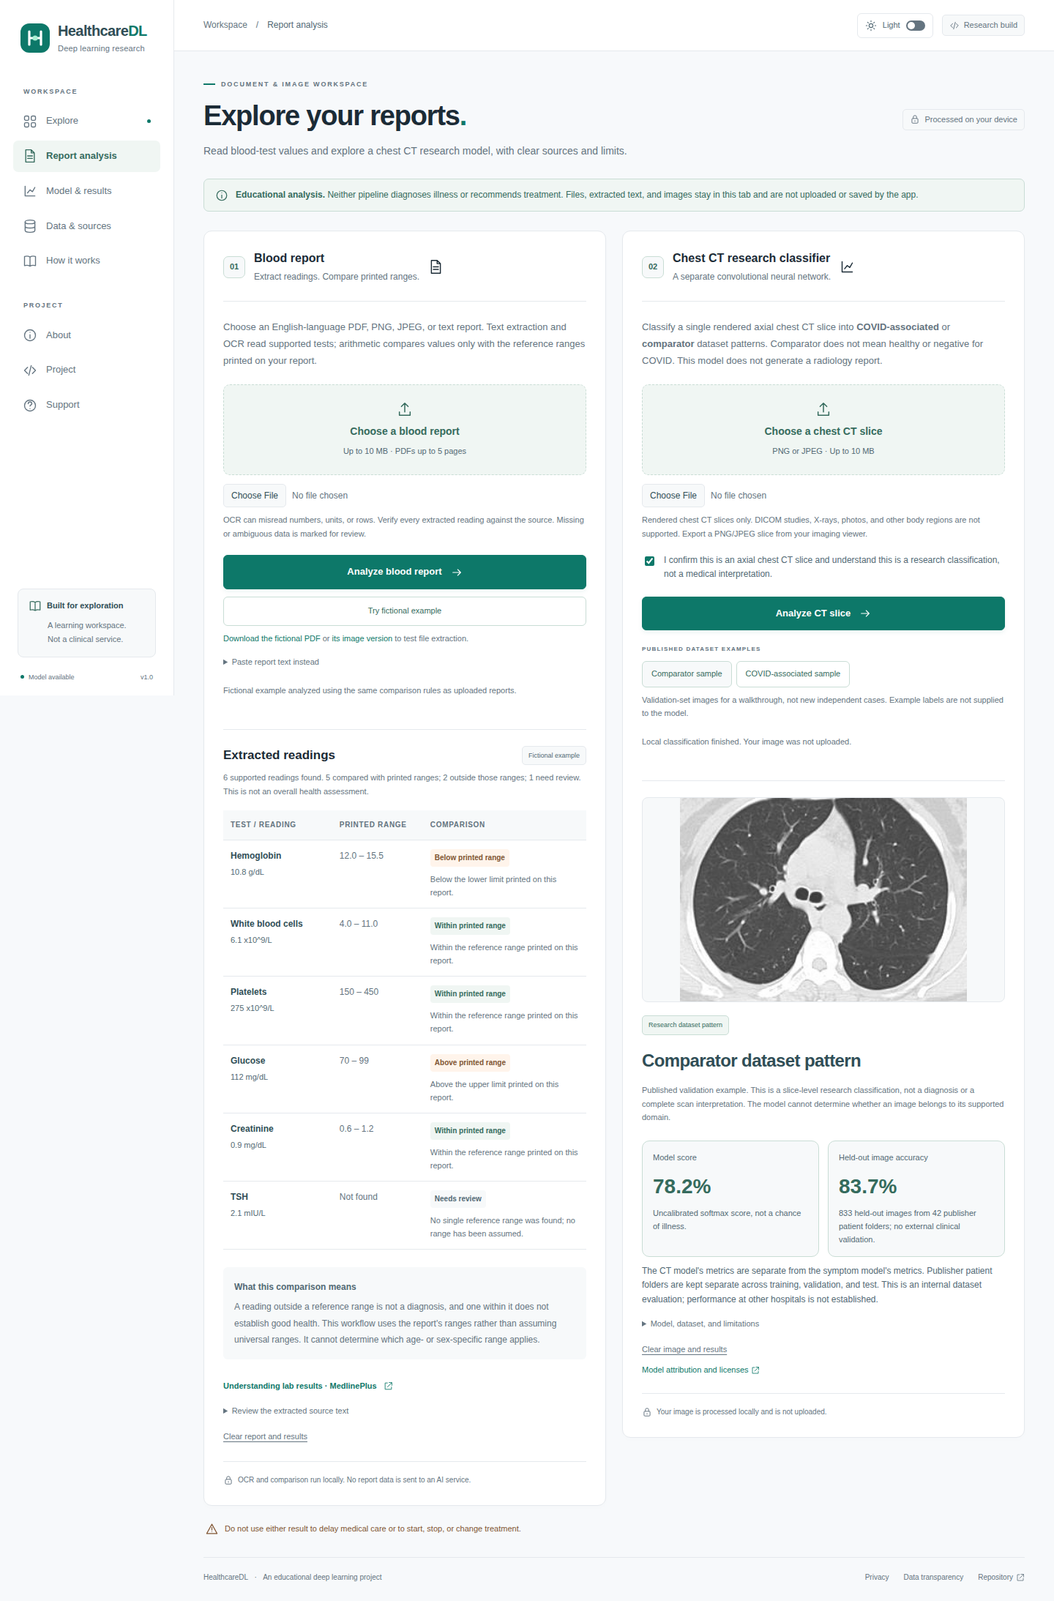
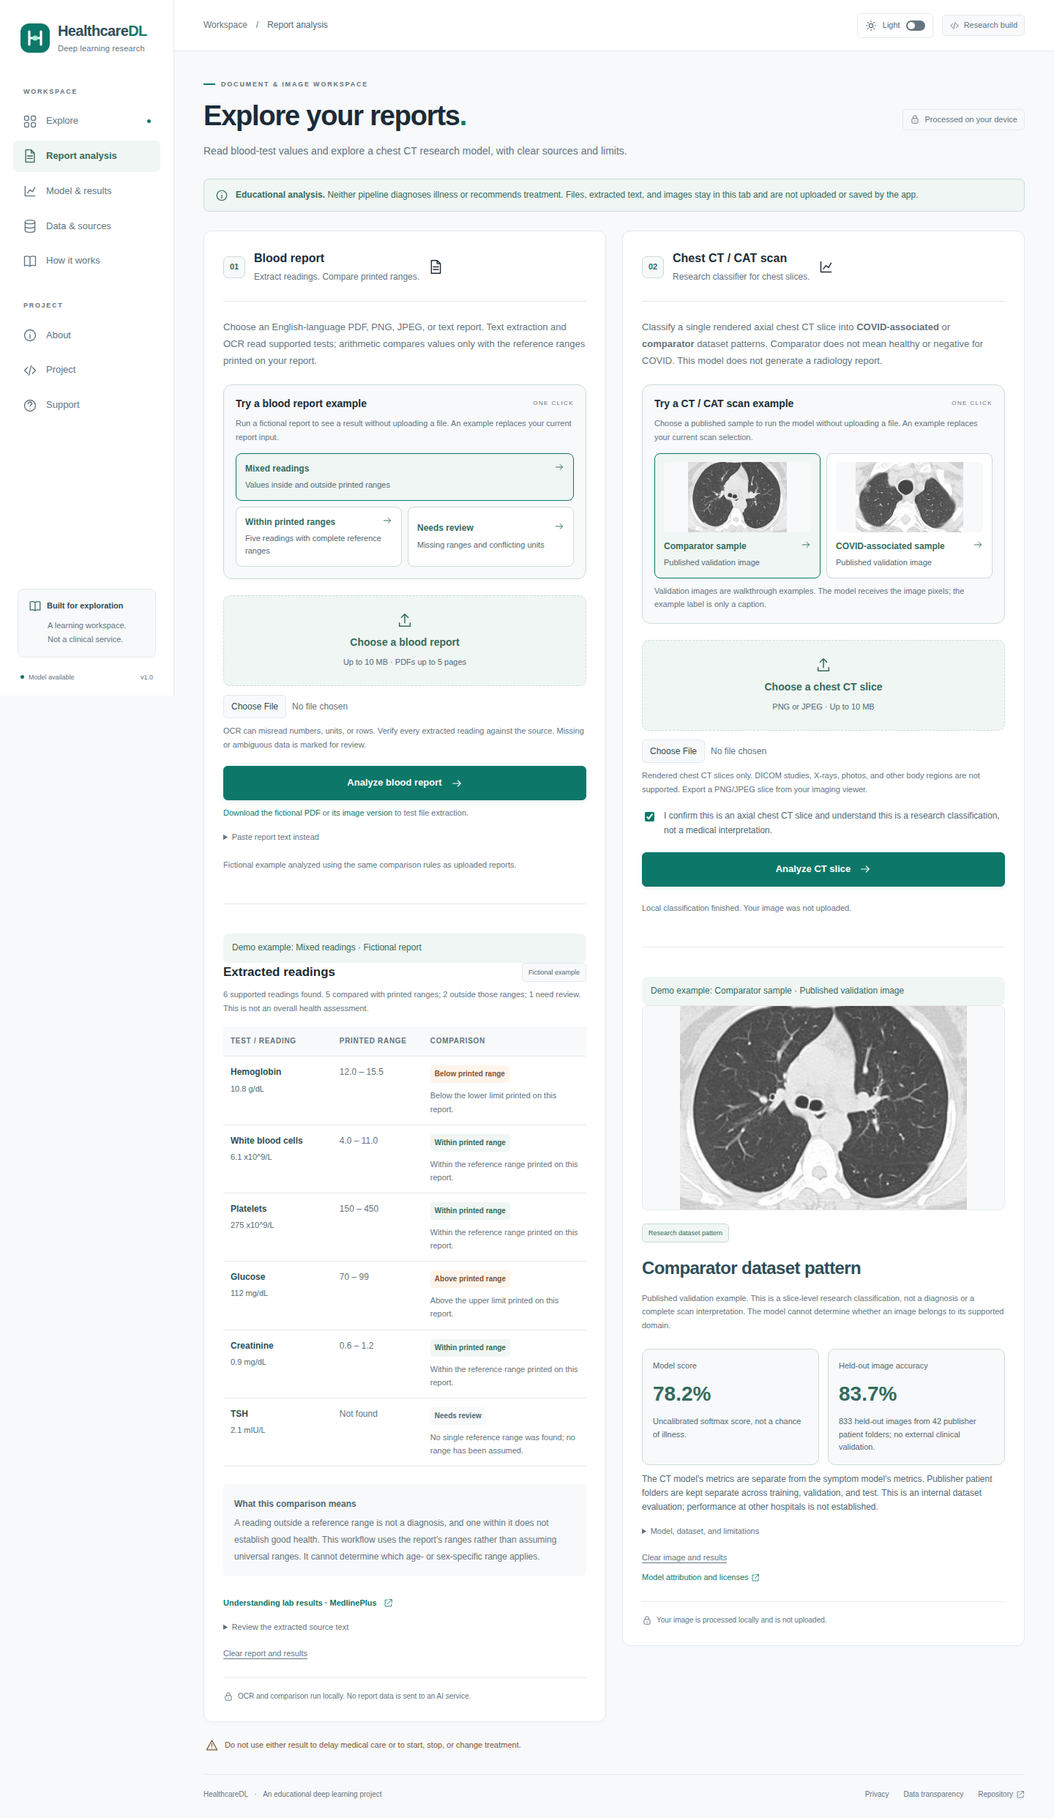
Add prominent one-click blood report and CT examples
Offer three fictional blood-report scenarios and CT image preview cards above the upload fields, using the symptom explorer example layout. Run comparisons and CT inference on selection, label demo results, move focus to the output, and reset demo selection when inputs change.

Update the walkthrough documentation and screenshot. All 152 checks pass, including example replacement, actual CT inference, and requests confirming medical files stay in the browser.

diff --git a/templates/reports.html b/templates/reports.html
@@ -17,18 +17,28 @@
     <form id="blood-form">
       <fieldset id="blood-controls" disabled>
         <legend class="visually-hidden">Blood-report source and analysis</legend>
+        <div class="demo-examples report-examples" aria-labelledby="blood-examples-title">
+          <div class="examples-heading"><h3 id="blood-examples-title">Try a blood report example</h3><span class="subtle-label">ONE CLICK</span></div>
+          <p class="field-hint">Run a fictional report to see a result without uploading a file. An example replaces your current report input.</p>
+          <div class="example-buttons">
+            <button type="button" class="example-button" id="blood-example" data-blood-example="mixed" data-example-label="Mixed readings" aria-label="Run mixed readings blood report example" aria-pressed="false"><strong>Mixed readings {{ icon('arrow',14) }}</strong><span>Values inside and outside printed ranges</span></button>
+            <button type="button" class="example-button" data-blood-example="within" data-example-label="Within printed ranges" aria-label="Run within printed ranges blood report example" aria-pressed="false"><strong>Within printed ranges {{ icon('arrow',14) }}</strong><span>Five readings with complete reference ranges</span></button>
+            <button type="button" class="example-button" data-blood-example="review" data-example-label="Needs review" aria-label="Run needs review blood report example" aria-pressed="false"><strong>Needs review {{ icon('arrow',14) }}</strong><span>Missing ranges and conflicting units</span></button>
+          </div>
+        </div>
         <label class="document-file-label" for="blood-file">{{ icon('upload',22) }}<strong>Choose a blood report</strong><span>Up to 10 MB · PDFs up to 5 pages</span></label>
         <input id="blood-file" type="file" accept=".pdf,.png,.jpg,.jpeg,.txt,application/pdf,image/png,image/jpeg,text/plain" aria-describedby="blood-help">
         <p class="field-hint" id="blood-help">OCR can misread numbers, units, or rows. Verify every extracted reading against the source. Missing or ambiguous data is marked for review.</p>
-        <div class="document-actions"><button class="primary-button" type="submit" id="blood-analyze">Analyze blood report {{ icon('arrow',16) }}</button><button type="button" class="secondary" id="blood-example">Try fictional example</button></div>
+        <div class="document-actions"><button class="primary-button" type="submit" id="blood-analyze">Analyze blood report {{ icon('arrow',16) }}</button></div>
         <p class="field-hint"><a href="{{ url_for('static', filename='examples/blood-report.pdf') }}" download>Download the fictional PDF</a> or <a href="{{ url_for('static', filename='examples/blood-report.png') }}" download>its image version</a> to test file extraction.</p>
         <details class="manual-entry"><summary>Paste report text instead</summary><label for="blood-text">Report text</label><textarea id="blood-text" maxlength="200000" rows="5" placeholder="Hemoglobin 10.8 g/dL 12.0 - 15.5"></textarea><p class="field-hint">One test per line, with result, unit, and the report's reference range. Pasted text takes precedence over a selected file.</p></details>
       </fieldset>
     </form>
-    <p class="document-progress field-hint" id="blood-status" role="status" aria-live="polite">Choose a report or run the fictional example. Processing may take longer on mobile devices.</p>
+    <p class="document-progress field-hint" id="blood-status" role="status" aria-live="polite">Choose a report or try an example above. Processing may take longer on mobile devices.</p>
     <div class="document-error error" id="blood-error" role="alert" hidden></div>
     <div id="blood-results" class="document-results" hidden>
-      <div class="document-result-heading"><h3>Extracted readings</h3><span class="result-badge neutral-badge" id="blood-method"></span></div>
+      <p class="example-notice" id="blood-example-notice" hidden></p>
+      <div class="document-result-heading"><h3 id="blood-results-title" tabindex="-1">Extracted readings</h3><span class="result-badge neutral-badge" id="blood-method"></span></div>
       <p class="field-hint" id="blood-summary"></p>
       <div class="document-table-scroll" tabindex="0" role="region" aria-label="Extracted blood-test readings"><table class="data-table lab-table"><thead><tr><th>Test / reading</th><th>Printed range</th><th>Comparison</th></tr></thead><tbody id="blood-rows"></tbody></table></div>
       <div class="interpretation"><strong>What this comparison means</strong><p>A reading outside a reference range is not a diagnosis, and one within it does not establish good health. This workflow uses the report's ranges rather than assuming universal ranges. It cannot determine which age- or sex-specific range applies.</p></div>
@@ -39,25 +49,34 @@
     <div class="privacy-inline">{{ icon('lock',14) }}<span>OCR and comparison run locally. No report data is sent to an AI service.</span></div>
   </section>
   <section class="card document-card" aria-labelledby="ct-title">
-    <div class="card-heading"><div class="section-number">02</div><div><h2 id="ct-title">Chest CT research classifier</h2><p>A separate convolutional neural network.</p></div>{{ icon('chart',21) }}</div>
+    <div class="card-heading"><div class="section-number">02</div><div><h2 id="ct-title">Chest CT / CAT scan</h2><p>Research classifier for chest slices.</p></div>{{ icon('chart',21) }}</div>
     <p class="document-intro">Classify a single rendered axial chest CT slice into <strong>COVID-associated</strong> or <strong>comparator</strong> dataset patterns. Comparator does not mean healthy or negative for COVID. This model does not generate a radiology report.</p>
     {% if not ct_report %}<p class="error">The CT model report is unavailable. Blood-report analysis remains available.</p>{% endif %}
     <form id="ct-form">
       <fieldset id="ct-controls" disabled {% if not ct_report %}data-unavailable="true"{% endif %}>
         <legend class="visually-hidden">Chest CT source and research classification</legend>
+        <div class="demo-examples report-examples" aria-labelledby="ct-examples-title">
+          <div class="examples-heading"><h3 id="ct-examples-title">Try a CT / CAT scan example</h3><span class="subtle-label">ONE CLICK</span></div>
+          <p class="field-hint">Choose a published sample to run the model without uploading a file. An example replaces your current scan selection.</p>
+          <div class="example-buttons">
+            <button type="button" class="example-button ct-example-button" data-ct-example="0" data-example-label="Comparator sample" aria-label="Run comparator CT scan example" aria-pressed="false"><img src="{{ url_for('static', filename='models/chest-ct/example-0.png') }}" alt="" width="160" height="96" loading="lazy"><strong>Comparator sample {{ icon('arrow',14) }}</strong><span>Published validation image</span></button>
+            <button type="button" class="example-button ct-example-button" data-ct-example="1" data-example-label="COVID-associated sample" aria-label="Run COVID-associated CT scan example" aria-pressed="false"><img src="{{ url_for('static', filename='models/chest-ct/example-1.png') }}" alt="" width="160" height="96" loading="lazy"><strong>COVID-associated sample {{ icon('arrow',14) }}</strong><span>Published validation image</span></button>
+          </div>
+          <p class="field-hint">Validation images are walkthrough examples. The model receives the image pixels; the example label is only a caption.</p>
+        </div>
         <label class="document-file-label" for="ct-file">{{ icon('upload',22) }}<strong>Choose a chest CT slice</strong><span>PNG or JPEG · Up to 10 MB</span></label>
         <input id="ct-file" type="file" accept=".png,.jpg,.jpeg,image/png,image/jpeg" aria-describedby="ct-help">
         <p class="field-hint" id="ct-help">Rendered chest CT slices only. DICOM studies, X-rays, photos, and other body regions are not supported. Export a PNG/JPEG slice from your imaging viewer.</p>
         <label class="document-confirmation" for="ct-confirm"><input id="ct-confirm" type="checkbox" required><span>I confirm this is an axial chest CT slice and understand this is a research classification, not a medical interpretation.</span></label>
         <div class="document-actions"><button class="primary-button" type="submit" id="ct-analyze">Analyze CT slice {{ icon('arrow',16) }}</button></div>
-        <div class="ct-examples"><span class="quick-label">PUBLISHED DATASET EXAMPLES</span><div class="quick-symptoms"><button type="button" class="secondary" data-ct-example="0">Comparator sample</button><button type="button" class="secondary" data-ct-example="1">COVID-associated sample</button></div><p class="field-hint">Validation-set images for a walkthrough, not new independent cases. Example labels are not supplied to the model.</p></div>
       </fieldset>
     </form>
     <p class="document-progress field-hint" id="ct-status" role="status" aria-live="polite">The model runs locally using your browser's CPU. Its first run downloads the model and WebAssembly runtime from this site.</p>
     <div class="document-error error" id="ct-error" role="alert" hidden></div>
     <div id="ct-results" class="document-results" hidden>
+      <p class="example-notice" id="ct-example-notice" hidden></p>
       <img id="ct-preview" class="ct-preview" alt="Selected chest CT slice" hidden>
-      <span class="result-badge" id="ct-result-badge">Research model output</span><h3 class="condition-title" id="ct-result-label"></h3>
+      <span class="result-badge" id="ct-result-badge">Research model output</span><h3 class="condition-title" id="ct-result-label" tabindex="-1"></h3>
       <p class="field-hint" id="ct-result-description"></p>
       <dl class="result-metrics"><div><dt>Model score</dt><dd><strong id="ct-result-score"></strong><p>Uncalibrated softmax score, not a chance of illness.</p></dd></div><div><dt>Held-out image accuracy</dt><dd><strong id="ct-result-accuracy"></strong><p id="ct-result-support"></p></dd></div></dl>
       <p class="metric-context">The CT model's metrics are separate from the symptom model's metrics. Publisher patient folders are kept separate across training, validation, and test. This is an internal dataset evaluation; performance at other hospitals is not established.</p>

diff --git a/templates/index.html b/templates/index.html
@@ -2,7 +2,7 @@
 {% block content %}
 <div class="page-heading"><div><p class="eyebrow"><span class="tiny-line"></span>SYMPTOM EXPLORER</p><h1>Explore symptom patterns<span class="accent">.</span></h1><p class="page-description">Explore how a neural network connects symptoms to examples in a learning dataset.</p></div><a class="text-link heading-link" href="{{ url_for('blog') }}">How it works {{ icon('arrow',16) }}</a></div>
 <div class="scope-note">{{ icon('info',18) }}<p><strong>For learning and research.</strong> This demo cannot diagnose illness or recommend treatment.</p><a href="{{ url_for('about') }}">Understand the limits {{ icon('external',13) }}</a></div>
-<p class="report-entry"><a class="text-link" href="{{ url_for('medical_reports') }}">{{ icon('file',16) }} Have a blood report or chest CT slice? Open report analysis {{ icon('arrow',15) }}</a></p>
+<p class="report-entry"><a class="text-link" href="{{ url_for('medical_reports') }}">{{ icon('file',16) }} Try blood report and CT / CAT scan examples, or analyze a file {{ icon('arrow',15) }}</a></p>
 <div class="workspace-grid">
   <section class="card explorer-card" aria-labelledby="form-title">
     <div class="card-heading"><div class="section-number">01</div><div><h2 id="form-title">Build your symptom list</h2><p>Select the entries you want to explore.</p></div><span class="subtle-label">INPUT</span></div>

diff --git a/public/static/style.css b/public/static/style.css
@@ -2014,6 +2014,7 @@ fieldset {
   margin-top: 24px;
   padding-top: 22px;
   border-top: 1px solid var(--line);
+  scroll-margin-top: 90px;
 }
 .document-result-heading {
   display: flex;
@@ -2113,14 +2114,27 @@ fieldset {
   accent-color: var(--green);
   flex-shrink: 0;
 }
-.ct-examples {
-  margin-top: 18px;
+.report-examples .example-button[aria-pressed="true"] {
+  border-color: var(--green);
+  background: var(--surface-accent);
 }
-.ct-examples .quick-label {
+.report-examples [data-blood-example="mixed"] {
+  grid-column: 1 / -1;
+}
+.report-examples .example-button strong {
+  align-items: flex-start;
+}
+.report-examples .example-button svg {
+  flex-shrink: 0;
+}
+.ct-example-button img {
   display: block;
-}
-.ct-examples .quick-symptoms .secondary {
-  white-space: normal;
+  width: 100%;
+  height: 96px;
+  object-fit: contain;
+  border-radius: 5px;
+  margin-bottom: 10px;
+  background: var(--surface-muted);
 }
 .ct-preview {
   display: block;

diff --git a/tests/test_reports.py b/tests/test_reports.py
@@ -59,7 +59,7 @@ def test_missing_ct_runtime_report_disables_only_ct_controls(app, tmp_path):
     response = app.test_client().get("/reports")
     assert response.status_code == 200
     assert b'data-unavailable="true"' in response.data
-    assert b'Try fictional example' in response.data
+    assert b'Try a blood report example' in response.data
 
 
 def test_vendored_medical_assets_have_pinned_checksums_and_licenses():
@@ -136,9 +136,10 @@ def test_actual_report_files_are_processed_locally(live_url, browser_page, exten
     page.on("request", lambda request: external.append(request.url) if urlparse(request.url).scheme in {"http", "https"} and not request.url.startswith(live_url) else None)
     page.on("pageerror", lambda error: errors.append(str(error)))
     page.goto(live_url + "/reports")
-    page.get_by_role("button", name="Try fictional example").click()
+    page.get_by_role("button", name="Run mixed readings blood report example").click()
     page.set_input_files("#blood-file", str(ROOT / f"public/static/examples/blood-report.{extension}"))
     assert page.input_value("#blood-text") == ""
+    expect(page.locator("#blood-example-notice")).to_be_hidden()
     page.get_by_role("button", name="Analyze blood report").click()
     expect(page.locator("#blood-results")).to_be_visible(timeout=60000)
     expect(page.locator("#blood-method")).to_have_text(method)
@@ -150,6 +151,63 @@ def test_actual_report_files_are_processed_locally(live_url, browser_page, exten
     assert page.input_value("#blood-file") == ""
     assert page.locator("#blood-rows tr").count() == 0
     assert not posts and not external and not errors
+
+
+def test_blood_demo_cards_replace_input_and_run_each_comparison(live_url, browser_page):
+    from playwright.sync_api import expect
+    page = browser_page
+    page.emulate_media(reduced_motion="reduce")
+    requests = []
+    page.on("request", lambda request: requests.append((request.method, request.url)))
+    page.goto(live_url + "/reports")
+    page.set_input_files("#blood-file", str(ROOT / "public/static/examples/blood-report.txt"))
+    for example, count, outside, review in [("mixed", 6, 2, 1), ("within", 5, 0, 0), ("review", 3, 0, 3)]:
+        button = page.locator(f'[data-blood-example="{example}"]')
+        button.click()
+        expect(page.locator("#blood-results")).to_be_visible()
+        expect(page.locator("#blood-method")).to_have_text("Fictional example")
+        expect(page.locator("#blood-example-notice")).to_contain_text(button.get_attribute("data-example-label"))
+        expect(page.locator("#blood-results-title")).to_be_focused()
+        assert page.locator("#blood-rows tr").count() == count
+        assert page.locator("#blood-rows .lab-above, #blood-rows .lab-below").count() == outside
+        assert page.locator("#blood-rows .lab-review").count() == review
+        assert page.input_value("#blood-file") == ""
+        assert page.input_value("#blood-text") == page.locator("#blood-source").text_content()
+        assert page.locator('[data-blood-example][aria-pressed="true"]').count() == 1
+    page.get_by_role("button", name="Clear report and results").click()
+    expect(page.locator("#blood-example-notice")).to_be_hidden()
+    assert page.locator('[data-blood-example][aria-pressed="true"]').count() == 0
+    assert all(method == "GET" and url.startswith(live_url) for method, url in requests)
+
+
+def test_ct_demo_cards_run_both_images_and_reset_for_a_new_upload(live_url, browser_page):
+    from playwright.sync_api import expect
+    page = browser_page
+    page.set_viewport_size({"width": 375, "height": 812})
+    page.emulate_media(color_scheme="dark", reduced_motion="reduce")
+    requests, errors = [], []
+    page.on("request", lambda request: requests.append((request.method, request.url)))
+    page.on("pageerror", lambda error: errors.append(str(error)))
+    page.goto(live_url + "/reports")
+    for index, label in [(0, "Comparator dataset pattern"), (1, "COVID-associated dataset pattern")]:
+        button = page.locator(f'[data-ct-example="{index}"]')
+        button.click()
+        expect(page.locator("#ct-result-label")).to_have_text(label, timeout=60000)
+        expect(page.locator("#ct-example-notice")).to_contain_text(button.get_attribute("data-example-label"))
+        expect(page.locator("#ct-result-label")).to_be_focused()
+        expect(button).to_have_attribute("aria-pressed", "true")
+        expect(page.locator("#ct-error")).to_be_hidden()
+        expect(page.locator("#ct-result-accuracy")).to_have_text("83.7%")
+        assert page.input_value("#ct-file") == ""
+        assert page.locator('[data-ct-example][aria-pressed="true"]').count() == 1
+        assert page.evaluate("document.documentElement.scrollWidth <= innerWidth")
+    page.set_input_files("#ct-file", str(ROOT / "public/static/models/chest-ct/example-0.png"))
+    expect(page.locator("#ct-example-notice")).to_be_hidden()
+    expect(page.locator("#ct-results")).to_be_hidden()
+    assert not page.is_checked("#ct-confirm")
+    assert page.locator('[data-ct-example][aria-pressed="true"]').count() == 0
+    assert not errors
+    assert all(method == "GET" and (url.startswith(live_url) or url.startswith("blob:")) for method, url in requests)
 
 
 def test_ct_browser_preprocessing_and_inference_match_pytorch_export(live_url, browser_page):
@@ -253,7 +311,7 @@ def test_inconsistent_ct_model_bundle_is_rejected(live_url, browser_page, proble
         report["test"]["accuracy"] = 1.2
     page.route("**/models/chest-ct/report.json", lambda route: route.fulfill(json=report))
     page.goto(live_url + "/reports")
-    page.get_by_role("button", name="Comparator sample", exact=True).click()
+    page.get_by_role("button", name="Run comparator CT scan example", exact=True).click()
     expect(page.locator("#ct-error")).to_contain_text("integrity check", timeout=30000)
     expect(page.locator("#ct-results")).to_be_hidden()
 

diff --git a/README.md b/README.md
@@ -93,8 +93,10 @@ Voice input is optional and fills the same submitted field. Unsupported browsers
 
 Open **Report analysis** in the navigation, or visit `/reports`.
 
-- **Blood reports:** choose an English-language PDF, PNG, JPEG, or text file. PDF text extraction and Tesseract LSTM OCR read supported test rows, then arithmetic compares the result with the range printed on that report. Missing, conflicting, or ambiguous values are flagged for review. This is not a blood-disease prediction model; no universal ranges or diagnoses are invented. A fictional example and downloadable sample files are included.
-- **Chest CT:** choose a single rendered axial chest CT slice in PNG/JPEG format. A separate CNN classifies COVID-associated versus comparator dataset patterns. Comparator does not mean healthy or COVID-negative. DICOM studies, X-rays, other body regions, and general radiology interpretation are not supported. Two published validation examples are available.
+- **Blood reports:** choose an English-language PDF, PNG, JPEG, or text file. PDF text extraction and Tesseract LSTM OCR read supported test rows, then arithmetic compares the result with the range printed on that report. Missing, conflicting, or ambiguous values are flagged for review. This is not a blood-disease prediction model; no universal ranges or diagnoses are invented. Three one-click fictional examples—**Mixed readings**, **Within printed ranges**, and **Needs review**—run immediately and show the comparison. Downloadable PDF and image samples remain available for file extraction.
+- **Chest CT / CAT scans:** choose a single rendered axial chest CT slice in PNG/JPEG format. A separate CNN classifies COVID-associated versus comparator dataset patterns. Comparator does not mean healthy or COVID-negative. DICOM studies, X-rays, other body regions, and general radiology interpretation are not supported. Two one-click cards show published validation-image previews and run the actual model.
+
+Example cards appear above the upload fields, use the same visual style as the symptom examples, and move focus to the result when finished. Each result identifies its example source. Running an example replaces the current input; choosing your own file clears the example selection.
 
 Files are processed in the current browser tab and are not uploaded or saved by the application. There are no paid inference API calls. The first CT run downloads about 19 MB of local model/runtime assets; mobile devices can take longer. Files are limited to 10 MB and PDFs to five pages. Report processing requires JavaScript and a browser with WebAssembly support.
 

diff --git a/docs/REPORT_ANALYSIS.md b/docs/REPORT_ANALYSIS.md
@@ -2,6 +2,8 @@
 
 The `/reports` workspace has two separate pipelines. Neither feeds uploaded data into the symptom classifier, diagnoses a patient, or generates treatment advice. Its results do not inherit the symptom model's test accuracy.
 
+At the top of each input card, **Try an example** cards run a demonstration immediately. Blood examples cover mixed readings, readings within printed ranges, and missing/conflicting information requiring review. They use fictional report text and the same comparison rules as uploads. CT / CAT examples include previews of the two published validation images and execute the actual browser model. Results identify the example source, select the active card, and receive keyboard focus. Uploading a file or clearing the workspace removes the example selection. Examples replace current inputs and do not require a personal report or scan.
+
 ## Blood reports
 
 PDF.js 6.5.438 extracts text from PDFs. Pages without supported readable test rows are rendered and passed to Tesseract.js 7.0.0 with its English LSTM OCR model. PNG/JPEG images use the same OCR engine; UTF-8 text files and pasted text bypass OCR. All dependencies and language data are served from this site, without a third-party inference API.
